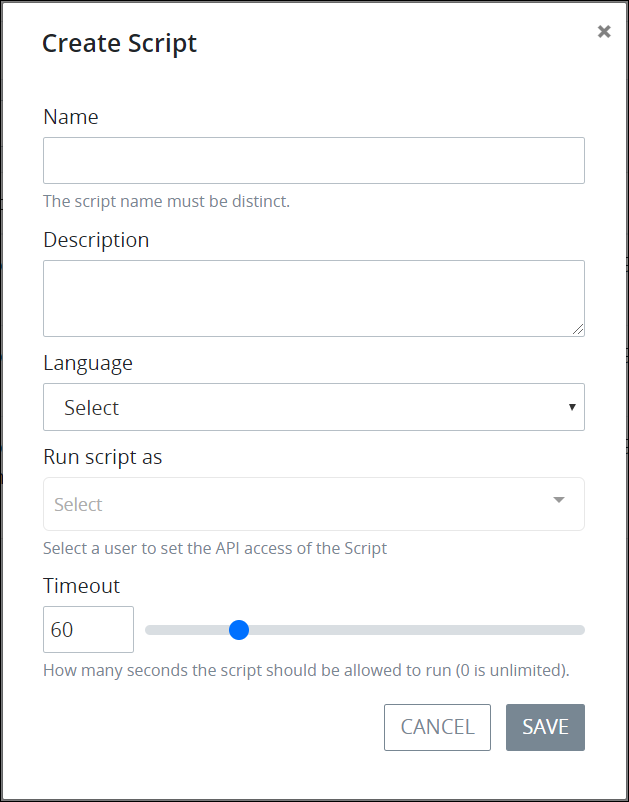
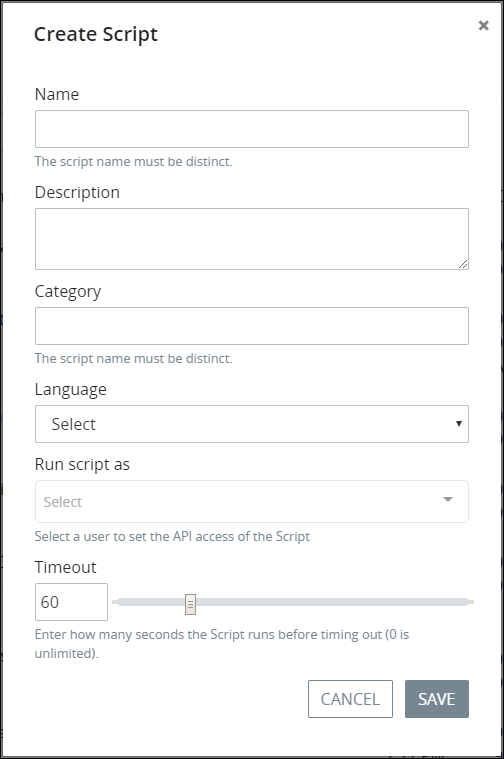
GitBook: [processmaker] 5 pages and 3 assets modified

diff --git a/designing-processes/process-design/model-your-process/add-and-configure-task-elements.md b/designing-processes/process-design/model-your-process/add-and-configure-task-elements.md
@@ -160,15 +160,15 @@ Follow these steps to select to whom to assign the Task that is referenced in a 
    * **Previous Task Assignee:** Select **Previous Task Assignee** to assign the Task to who was assigned the Task in the preceding Task element.
 4. Select the **Allow Reassignment** checkbox to allow the Task assignee to reassign the Task if necessary. If the **Allow Reassignment** checkbox is selected, the **Reassign** button displays in the Task summary to allow that Task assignee to reassign that Task. See [View a Task Summary](../../../using-processmaker/task-management/view-a-task-summary.md#summary).
 
-### Assign the Task Using a Rule
+### Assign the Task Using Rules
 
-Instead of [selecting to whom to assign a Task](add-and-configure-task-elements.md#select-to-whom-to-assign-the-task) that is referenced in a Task element, assign the Task's assignee using a rule:
+Instead of [selecting to whom to assign a Task](add-and-configure-task-elements.md#select-to-whom-to-assign-the-task) that is referenced in a Task element, assign the Task's assignee using one or more rules:
 
 * **Requester:** Assign that Task to the person who started the Request, also known as the requester.
 * **User:** Assign that Task to a selected ProcessMaker user.
 * **Group:** Assign that Task to a selected ProcessMaker group. When a Task is assigned to a ProcessMaker group, round robin assignment rules determine which group member is the assignee without manually assigning the Task.
 
-The rule that determines the Task assignee uses an expression syntax described in [Expression Syntax Components](add-and-configure-task-elements.md#expression-syntax-components). Each rule can only have one expression, but by using logical operators multiple conditions can be specified in that expression.
+The rule that determines the Task assignee uses an expression syntax described in [Expression Syntax Components](add-and-configure-task-elements.md#expression-syntax-components). Each rule can only have one expression, but by using logical operators multiple conditions can be specified in that expression. You may use multiple rules to better confine the condition\(s\) to whom to assign the Task.
 
 Follow these steps to select to whom to assign the Task that is referenced in a Task element using a rule:
 
@@ -253,17 +253,20 @@ Use the following expression syntax components to compose the expression that de
 | contains | `in` |
 | does not contain | `not in` |
 
-**Ternary**
-
-| Component | Syntax | Example |
-| :--- | :--- | :--- |
-| ternary | tested value `?` if true then value `:` else then value | `foo ? bar : baz` |
-
 **Range**
 
 | Component | Syntax | Example |
 | :--- | :--- | :--- |
 | range | `..` | `foo in 1..10` |
+
+#### Examples
+
+Consider the following examples.
+
+**Example 1:**  
+Suppose that you want to use a rule to assign a Task to the manager of a department to approve a leave request in a Leave Request Process. You're using a variable called `EmployeeDepartment` that represents the selected department that a requester specifies to which department that employee is a member. You want to assign the current Task to the manager of that employee. Use rules to specify to whom to assign the Task based on which department the requester belongs. Use the following expressions to assign the Task, assuming you know the manager of each department:
+
+If the employee's department is sales, then assign to the ProcessMaker user `Louis Canera: EmployeeDepartment == "sales"`.
 
 ### Set Task Notifications
 

diff --git a/designing-processes/process-design/model-your-process/add-and-configure-manual-task-elements.md b/designing-processes/process-design/model-your-process/add-and-configure-manual-task-elements.md
@@ -152,9 +152,9 @@ Follow these steps to select to whom to assign the Task that is referenced in a 
    * **Previous Task Assignee:** Select **Previous Task Assignee** to assign the Task to who was assigned the Task in the preceding Task element.
 4. Select the **Allow Reassignment** checkbox to allow the Task assignee to reassign the Task if necessary. If the **Allow Reassignment** checkbox is selected, the **Reassign** button displays in the Task summary to allow the Task assignee to reassign that Task. See [View a Task Summary](../../../using-processmaker/task-management/view-a-task-summary.md#summary).
 
-### Assign the Task Using a Rule
+### Assign the Task Using Rules
 
-Instead of [selecting to whom to assign a Task](add-and-configure-task-elements.md#select-to-whom-to-assign-the-task) that is reference in a Manual Task element, assign that Task's assignee using a rule.
+Instead of [selecting to whom to assign a Task](add-and-configure-task-elements.md#select-to-whom-to-assign-the-task) that is reference in a Manual Task element, assign that Task's assignee using one or more rules.
 
 Select to whom to assign the Task that is referenced in a Manual Task element using a rule:
 
@@ -162,7 +162,7 @@ Select to whom to assign the Task that is referenced in a Manual Task element us
 * **User:** Assign that Task to a selected ProcessMaker user.
 * **Group:** Assign that Task to a selected ProcessMaker group. When a Task is assigned to a ProcessMaker group, round robin assignment rules determine which group member is the assignee without manually assigning the Task.
 
-The rule that determines the Task assignee uses an expression syntax described in [Expression Syntax Components](add-and-configure-task-elements.md#expression-syntax-components). Each rule can only have one expression, but by using logical operators multiple conditions can be specified in that expression.
+The rule that determines the Task assignee uses an expression syntax described in [Expression Syntax Components](add-and-configure-task-elements.md#expression-syntax-components). Each rule can only have one expression, but by using logical operators multiple conditions can be specified in that expression. You may use multiple rules to better confine the condition\(s\) to whom to assign the Task.
 
 Follow these steps to select to whom to assign the Task that is referenced in a Manual Task element using a rule:
 
@@ -245,12 +245,6 @@ Use the following expression syntax components to compose the expression that de
 | :--- | :--- |
 | contains | `in` |
 | does not contain | `not in` |
-
-**Ternary**
-
-| Component | Syntax | Example |
-| :--- | :--- | :--- |
-| ternary | tested value `?` if true then value `:` else then value | `foo ? bar : baz` |
 
 **Range**
 

diff --git a/designing-processes/scripts/manage-scripts/create-a-new-script.md b/designing-processes/scripts/manage-scripts/create-a-new-script.md
@@ -26,7 +26,8 @@ Follow these steps to create a new ProcessMaker Script:
 
 3. In the **Name** field, enter the name of the ProcessMaker Script. This is a required field.
 4. In the **Description** field, enter the description of the ProcessMaker Script. This is a required field.
-5. From the **Language** drop-down menu, select one of the following programming languages in which the ProcessMaker Script is written:
+5. In the **Category** field, enter the name for the category to associate with the ProcessMaker Script. In doing so, maintain consistent naming with similarly functional ProcessMaker Screens so that they may be more easily sorted from the [**Scripts** page](view-all-scripts.md#view-all-processmaker-scripts). This is a required field.
+6. From the **Language** drop-down menu, select one of the following programming languages in which the ProcessMaker Script is written:
 
    * PHP
    * Lua
@@ -34,9 +35,9 @@ Follow these steps to create a new ProcessMaker Script:
 
    This is a required field.
 
-6. From the **Run script as** drop-down menu, select which ProcessMaker user's API client token to use with the ProcessMaker REST API. Ensure that the selected ProcessMaker user's account has the appropriate API [permissions](../../../processmaker-administration/permission-descriptions-for-users-and-groups.md) to access the ProcessMaker REST API. This is a required field.
-7. In the **Timeout** field, use the slider control or enter how many seconds the ProcessMaker Script is allowed to run before it times out. Use `0` to indicate that the ProcessMaker Script never times out. The default timeout is **60** seconds. This is a required field.
-8. Click **Save**. Scripts Editor displays so you can develop your ProcessMaker Script. See [Scripts Editor](../scripts-editor.md).
+7. From the **Run script as** drop-down menu, select which ProcessMaker user's API client token to use with the ProcessMaker REST API. Ensure that the selected ProcessMaker user's account has the appropriate API [permissions](../../../processmaker-administration/permission-descriptions-for-users-and-groups.md) to access the ProcessMaker REST API. This is a required field.
+8. In the **Timeout** field, use the slider control or enter how many seconds the ProcessMaker Script is allowed to run before it times out. Use `0` to indicate that the ProcessMaker Script never times out. The default timeout is **60** seconds. This is a required field.
+9. Click **Save**. Scripts Editor displays so you can develop your ProcessMaker Script. See [Scripts Editor](../scripts-editor.md).
 
 ## Related Topics
 

diff --git a/designing-processes/scripts/manage-scripts/view-all-scripts.md b/designing-processes/scripts/manage-scripts/view-all-scripts.md
@@ -26,7 +26,8 @@ The **Scripts** page displays the following information in tabular format about 
 
 * **Name:** The **Name** column displays the name of the ProcessMaker Script. Click the name to edit the ProcessMaker Screen in [Scripts Editor](../scripts-editor.md).
 * **Description:** The **Description** column displays the description of the ProcessMaker Script. See [Edit Script Configuration](edit-script-configuration.md#edit-configuration-information-about-a-processmaker-script) for more information.
-* **Language:** The **Language** column displays the programming language with which the ProcessMaker Script was written. Lua and PHP languages are supported in the open-source release.
+* **Category:** The **Category** column displays to which Script Category the ProcessMaker Script is assigned.
+* **Language:** The **Language** column displays the programming language with which the ProcessMaker Script was written.
 * **Modified:** The **Modified** column displays the date and time the ProcessMaker Script was last modified. The time zone setting to display the time is according to the ProcessMaker instance unless your [user profile's](../../../using-processmaker/profile-settings.md#change-your-profile-settings) **Time zone** setting is specified.
 * **Created:** The **Created** column displays the date and time the ProcessMaker Script was created. The time zone setting to display the time is according to the ProcessMaker instance unless your [user profile's](../../../using-processmaker/profile-settings.md#change-your-profile-settings) **Time zone** setting is specified.
 

diff --git a/designing-processes/scripts/what-is-a-script.md b/designing-processes/scripts/what-is-a-script.md
@@ -15,7 +15,7 @@ While writing a ProcessMaker Script, test it before you deploy it. ProcessMaker 
 
 During run-time, ProcessMaker Scripts run within isolated containers for greater security. After the ProcessMaker Script runs and returns output to the Request, the container that isolated and ran the script automatically removes itself.
 
-ProcessMaker supports Lua and PHP Scripts in the open-source release.
+ProcessMaker supports Lua, PHP, and NodeJS programming languages in the open-source edition.
 
 ## Related Topics
 
